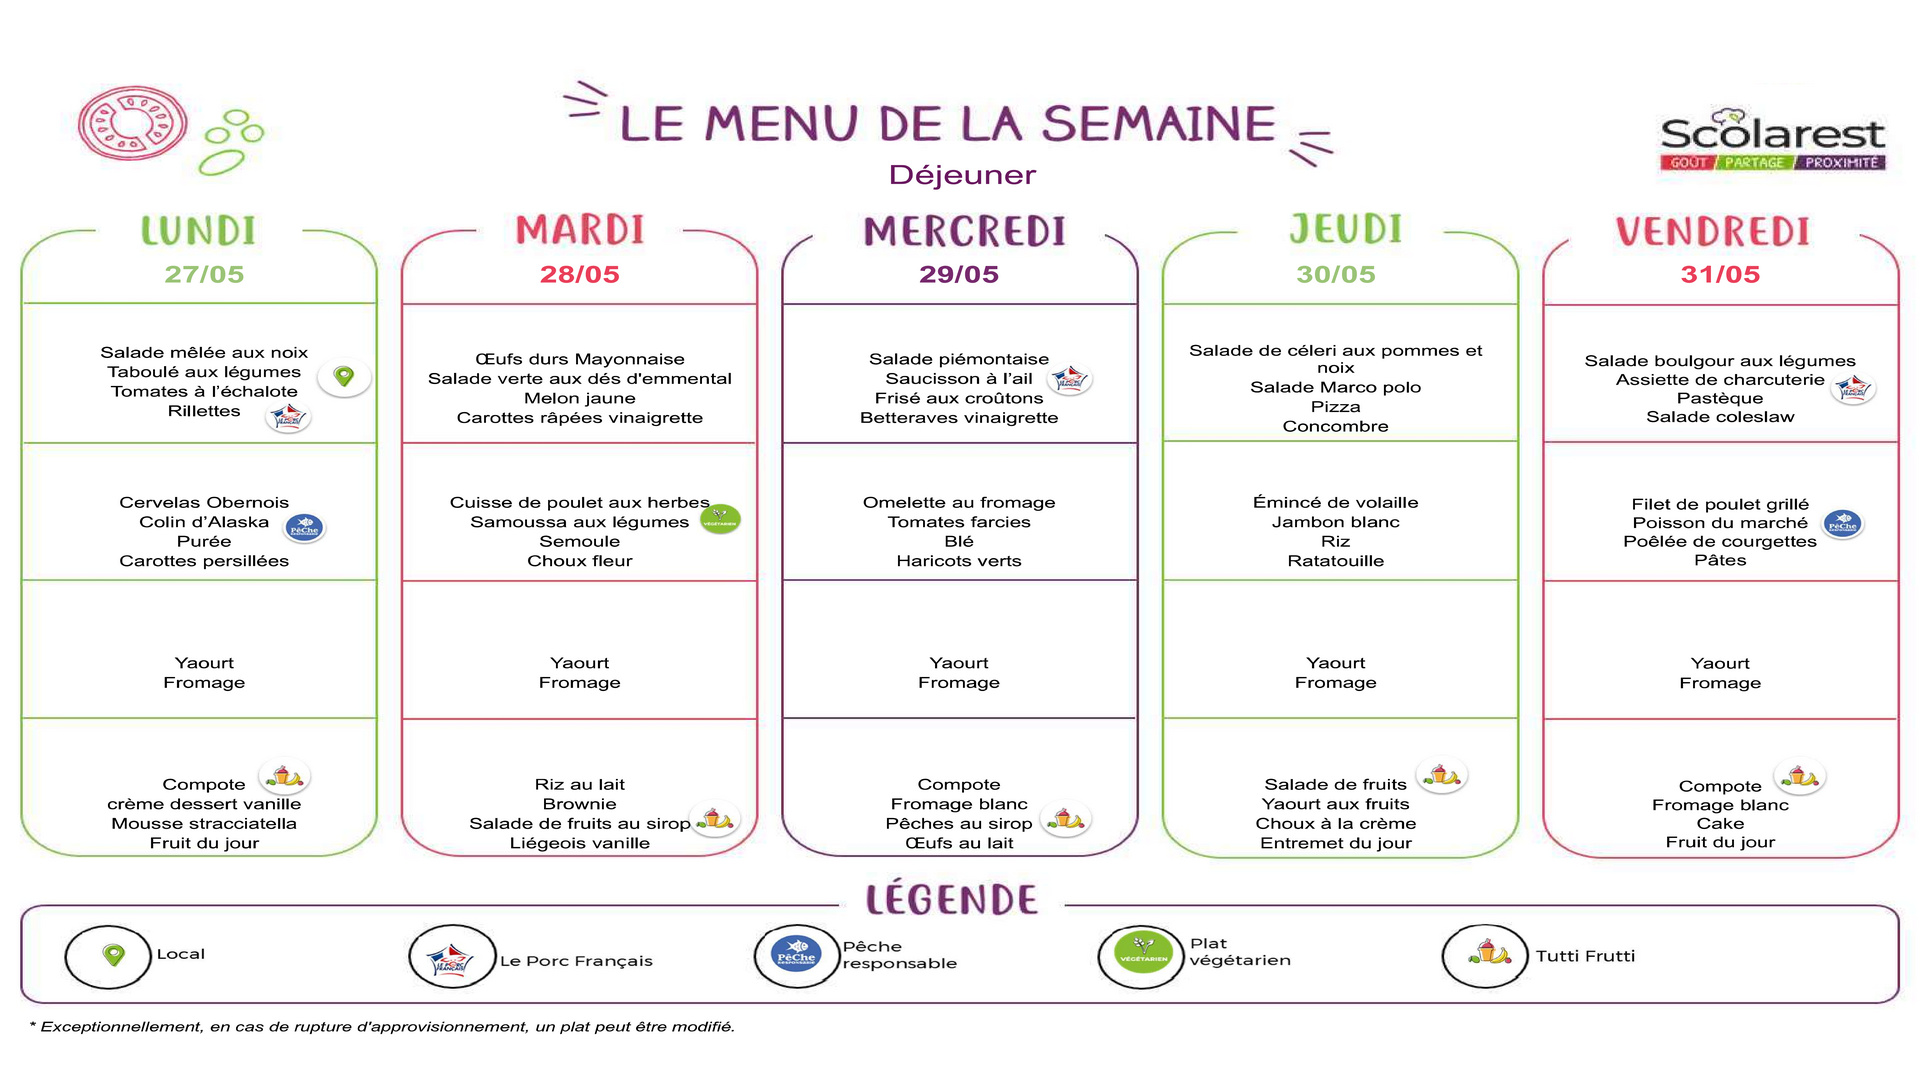
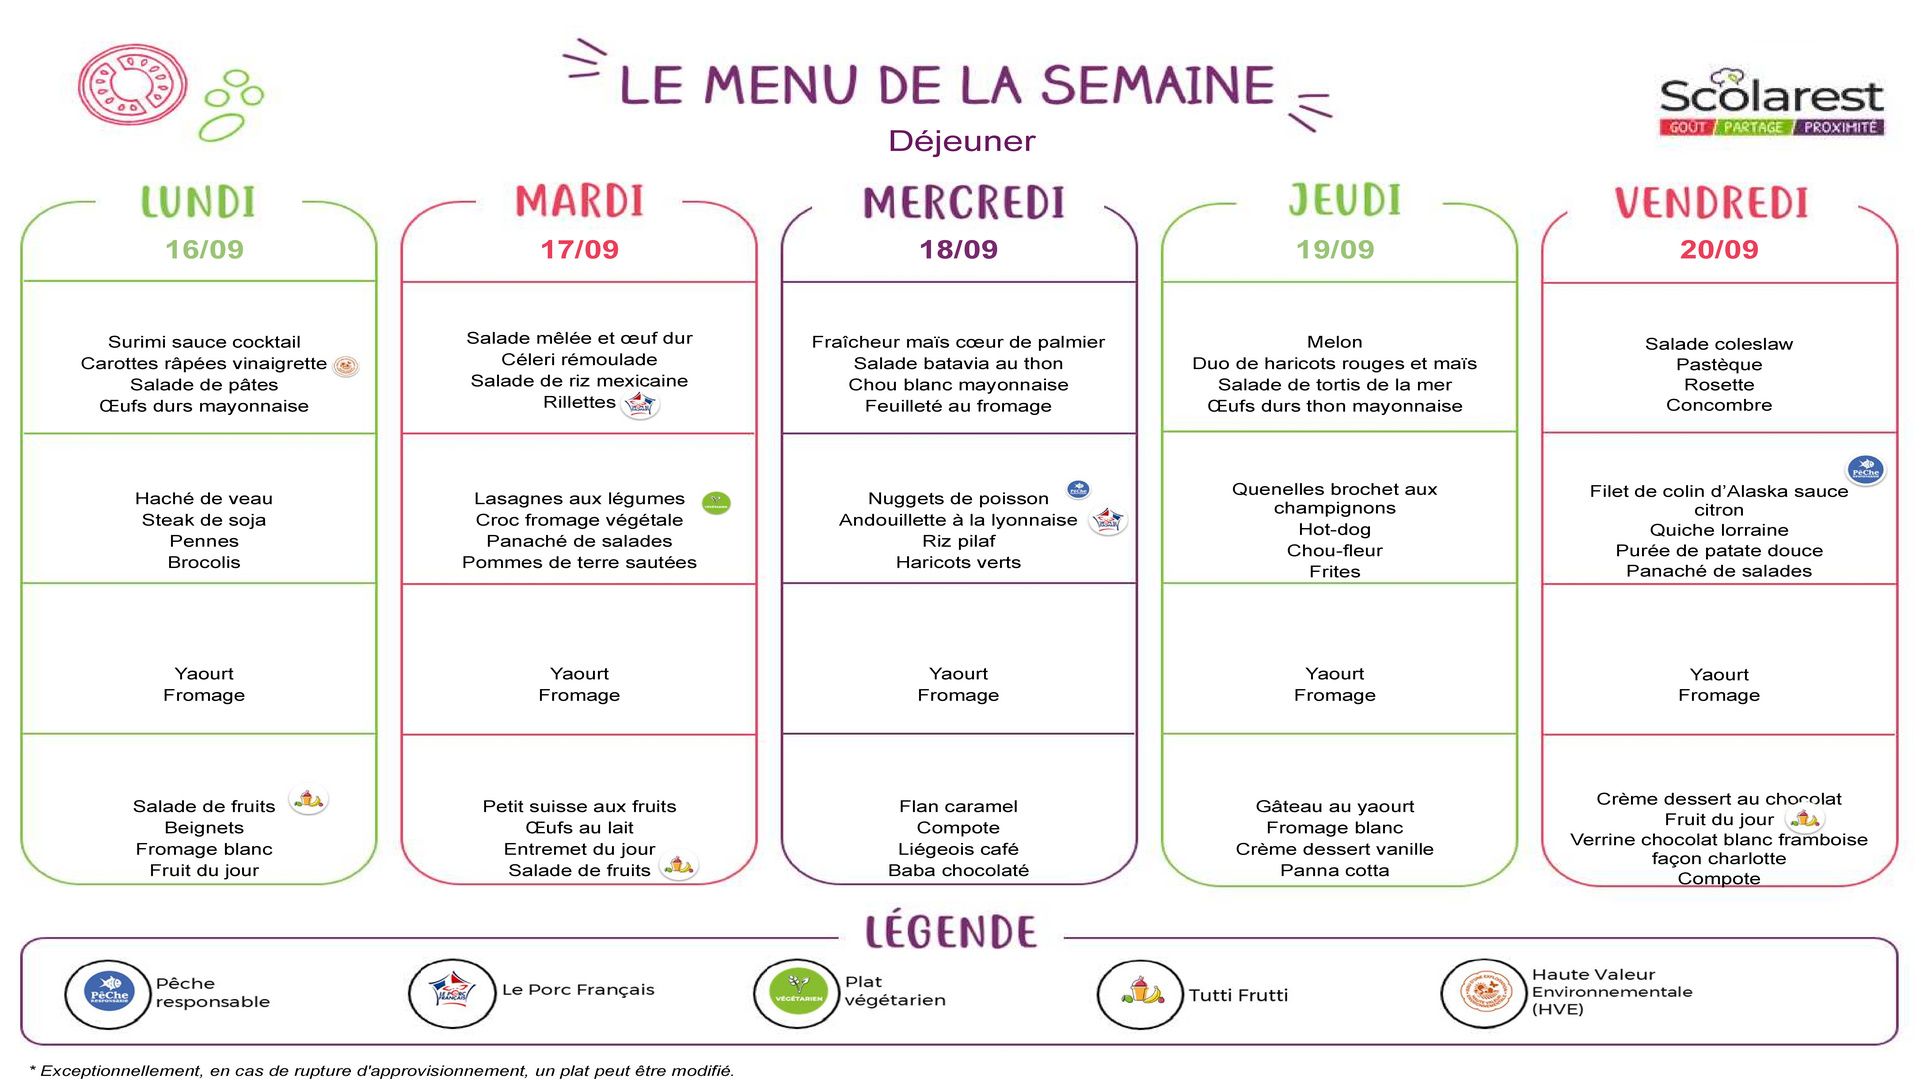
Mise à jour du 18/09/2024

diff --git a/list.php b/list.php
@@ -1,33 +1,17 @@
-<!------------HEADER------------>
 <?php
 require_once 'verif_session.php';
 require_once 'Fonctions/fonction.php';
 
-//var_dump($user_id);
-//var_dump($role_id);
-//if (!checkPermission($role_id, $page, $pdo)) {
-        // Redirection vers une page d'erreur d'autorisation
-  //  header("Location: 403error.php");
-    //exit(); // Arrêt de l'exécution du script pour éviter tout accès non autorisé
-//}
-
-
-$pageTitle = "Liste des Rasperrys Pi"; // Titre de la page
+$pageTitle = "Liste des Rasperrys Pi";
 $dropDownMenu = true;
 include "modules/header.php";
 ?>
-<!------------BODY------------>
-
-
 <body>
     <div class="list page">
-
         <?php include "modules/list_menu.php"; ?>
-
         <section class="page-content">
             <h1>Liste des Hôtes</h1>
             <hr>
-
             <label for="target_pis">Hôtes cibles</label>
             <select id="target_pis" name="target_pis[]" multiple>
                 <?php
@@ -35,13 +19,11 @@ include "modules/header.php";
                 try {
                     $conn = new PDO('mysql:host=' . $dbhost . ';port=' . $dbport . ';dbname=' . $db . '', $dbuser, $dbpasswd);
                     $conn->setAttribute(PDO::ATTR_ERRMODE, PDO::ERRMODE_EXCEPTION);
-
                     $stmt = $conn->query('SELECT * FROM pis');
-                    $rows = $stmt->fetchAll();
-
+                    $rows = $stmt->fetchAll(PDO::FETCH_ASSOC);
                     if (count($rows) > 0) {
                         foreach ($rows as $row) {
-                            echo '<option value="' . $row['ip'] . '">' . $row['name'] . ' - ' . $row['ip'] . '</option>';
+                            echo '<option value="' . $row['id'] . '">' . $row['name'] . ' - ' . $row['ip'] . '</option>';
                         }
                     } else {
                         echo '<option disabled selected>Pas d\'hôte disponible...</option>';
@@ -51,90 +33,42 @@ include "modules/header.php";
                 }
                 ?>
             </select>
-
             <?php
-            require_once "controllers/controller_config_files.php";
-
-            $db = new PDO('mysql:host=' . $dbhost . ';port=' . $dbport . ';dbname=' . $db . '', $dbuser, $dbpasswd);
-            // Récupérer tous les groupes depuis la table "groups"
+            // Récupérer tous les groupes depuis la table "groupes"
             $query = "SELECT id, name FROM groupes";
-            $stmt = $db->prepare($query);
+            $stmt = $conn->prepare($query);
             $stmt->execute();
             $groups = $stmt->fetchAll(PDO::FETCH_ASSOC);
-
-            // Traitement du formulaire
-            if ($_SERVER["REQUEST_METHOD"] == "POST") {
-                // Récupérer le groupe sélectionné
-                $selectedGroupId = $_POST['group_id'];
-
-                // Mettre à jour la base de données avec le nouveau groupe sélectionné
-                $query = "UPDATE pis SET group_id = :group_id";
-                $stmt = $db->prepare($query);
-                $stmt->bindParam(':group_id', $selectedGroupId);
-                $stmt->execute();
-
-                // Rediriger vers la page de configuration pour éviter la soumission du formulaire à nouveau en actualisant la page
-                // header("Location: list.php");
-
-                die();
-            }
             ?>
-
             <div class="selected-group">
-
                 <form method="post" action="update_table.php">
-
-                    <label for="group_id">Sélectionner un groupe</label>
-                    <select class="gid" name="group_id" id="groupid">
-                        <option value="">Sélectionner un groupe</option>
+                    <label for="group_id">Sélectionner des groupes</label>
+                    <select class="gid" name="group_id[]" id="groupid" multiple>
                         <?php foreach ($groups as $group): ?>
                             <option value="<?php echo $group['id']; ?>">
                                 <?php echo $group['name']; ?>
                             </option>
                         <?php endforeach; ?>
                     </select>
-
                     <input type="hidden" name="selected_pis" id="selected_pis" value="">
                     <input type="hidden" name="existing_group" id="existing_group" value="">
                     <button tabindex="0" type="submit" class="submit-btn">Ajouter</button>
-
                 </form>
             </div>
-
         </section>
     </div>
-
     <script>
-        var existingGroup; // Déclarez existingGroup ici
-
-        function addToGroup() {
-            var targetPis = document.getElementById("target_pis");
-            var selectedPis = Array.from(targetPis.selectedOptions).map(option => option.value);
-
-            existingGroup = document.getElementById("existing_group").value; // Obtenez la valeur de l'élément HTML ici
-
-            // Envoyer les données au serveur via une requête AJAX ou un formulaire
-            alert("Ajout de ces Hôtes (" + selectedPis.join(', ') + ") au groupe " + existingGroup);
-        }
-
-        document.getElementById("target_pis").addEventListener("change", function () {
-            var selectedPis = document.getElementById("target_pis").selectedOptions;
-            var selectedGroup = document.querySelector(".selected-group");
-
-            selectedGroup.style.display = selectedPis.length > 0 ? "block" : "none";
-
-        });
-
-
         document.getElementById("target_pis").addEventListener("change", function () {
             var selectedPis = Array.from(this.selectedOptions).map(option => option.value);
             document.getElementById("selected_pis").value = selectedPis.join(',');
+            var selectedGroup = document.querySelector(".selected-group");
+            selectedGroup.style.display = selectedPis.length > 0 ? "block" : "none";
         });
 
         document.getElementById("groupid").addEventListener("change", function () {
-            document.getElementById("existing_group").value = this.value;
+            var selectedGroups = Array.from(this.selectedOptions).map(option => option.value);
+            document.getElementById("existing_group").value = selectedGroups.join(',');
         });
     </script>
-
-    <!------------FOOTER------------>
     <?php include "modules/footer.php"; ?>
+</body>

diff --git a/update_table.php b/update_table.php
@@ -1,56 +1,52 @@
-<!------------HEADER------------>
 <?php
-$pageTitle = "Modifier Table"; // Titre de la page
+$pageTitle = "Modifier Table";
 $dropDownMenu = true;
 include "modules/header.php";
 ?>
-
-<!------------BODY------------>
-
 <body>
     <div class="page">
         <section class="page-content">
-
             <?php
             require_once "controllers/controller_config_files.php";
 
             if ($_SERVER["REQUEST_METHOD"] === "POST") {
-                // Récupérer les données soumises
                 $selectedPis = isset($_POST['selected_pis']) ? $_POST['selected_pis'] : '';
-                $existingGroup = isset($_POST['existing_group']) ? $_POST['existing_group'] : '';
+                $existingGroups = isset($_POST['existing_group']) ? $_POST['existing_group'] : '';
 
-                // Validation des données (vous devrez peut-être effectuer une validation plus approfondie ici)
+                // Validation des données
+                $selectedPisArray = explode(',', $selectedPis);
+                $existingGroupsArray = explode(',', $existingGroups);
 
-                // Mettre à jour la base de données avec les Raspberry Pi sélectionnés
                 try {
                     $conn = new PDO('mysql:host=' . $dbhost . ';port=' . $dbport . ';dbname=' . $db, $dbuser, $dbpasswd);
                     $conn->setAttribute(PDO::ATTR_ERRMODE, PDO::ERRMODE_EXCEPTION);
 
-                    // Vous devrez diviser la chaîne $selectedPis en un tableau pour traiter chaque Raspberry Pi
-                    $selectedPisArray = explode(',', $selectedPis);
+                    // Supprimer les relations existantes pour les Pi sélectionnés
+                    $deleteQuery = "DELETE FROM pis_groups WHERE pi_id IN (" . implode(',', array_map('intval', $selectedPisArray)) . ")";
+                    $conn->exec($deleteQuery);
 
-                    // Transformez le tableau en une chaîne de caractères avec des marqueurs de position
-                    $selectedPisPlaceholders = implode(', ', array_fill(0, count($selectedPisArray), '?'));
-
-                    // Préparez la requête en utilisant des marqueurs de position pour les Raspberry Pi
-                    $query = "UPDATE pis SET group_id = ? WHERE ip IN ($selectedPisPlaceholders)";
-                    $stmt = $conn->prepare($query);
-                    $stmt->bindParam(1, $existingGroup, PDO::PARAM_INT);
-
-                    // Liez chaque valeur du tableau individuellement
-                    foreach ($selectedPisArray as $index => $selectedPi) {
-                        $stmt->bindValue(($index + 2), $selectedPi, PDO::PARAM_STR);
+                    // Insérer les nouvelles relations
+                    foreach ($selectedPisArray as $pi_id) {
+                        foreach ($existingGroupsArray as $group_id) {
+                            $insertQuery = "INSERT INTO pis_groups (pi_id, group_id) VALUES (:pi_id, :group_id)";
+                            $stmt = $conn->prepare($insertQuery);
+                            $stmt->bindParam(':pi_id', $pi_id, PDO::PARAM_INT);
+                            $stmt->bindParam(':group_id', $group_id, PDO::PARAM_INT);
+                            if (!$stmt->execute()) {
+                                $msg = "Erreur lors de la mise à jour de la base de données : " . implode(", ", $stmt->errorInfo());
+                                include "./modules/error.php";
+                                exit;
+                            }
+                        }
                     }
 
-                    if ($stmt->execute()) {
-                        // Mise à jour réussie, maintenant mettez à jour la colonne "membre" dans la table "groupes".
-                        $updateGroupMemberCountQuery = "UPDATE groupes g
-                                           SET g.membres = (SELECT COUNT(p.ip) FROM pis p WHERE p.group_id = g.id)";
-                        $conn->exec($updateGroupMemberCountQuery);
-                    } else {
-                        $msg = "Erreur lors de la mise à jour de la base de données : " . implode(", ", $stmt->errorInfo());
-                        include "./modules/error.php";
-                    }
+                    // Mise à jour réussie, maintenant mettez à jour la colonne "membre" dans la table "groupes".
+                    $updateGroupMemberCountQuery = "UPDATE groupes g
+                                                    SET g.membres = (SELECT COUNT(pg.pi_id) FROM pis_groups pg WHERE pg.group_id = g.id)";
+                    $conn->exec($updateGroupMemberCountQuery);
+
+                    $msg = "Les hôtes ont bien été ajoutés aux groupes sélectionnés.";
+                    include "./modules/success.php";
 
                 } catch (PDOException $e) {
                     $msg = "Erreur de connexion à la base de données : " . $e->getMessage();
@@ -60,20 +56,8 @@ include "modules/header.php";
                 $msg = "Accès non autorisé.";
                 include "./modules/error.php";
             }
-
-            $msg = "L'hôte a bien été ajouté au groupe " . $existingGroup . ".";
-            include "./modules/success.php";
-
             ?>
-
-            <!-- <a tabindex="0" href="<?php echo $_SERVER['HTTP_REFERER']; ?>" class="back-btn"><i
-            class="fa-solid fa-arrow-right-from-bracket fa-rotate-180"></i>Retour</a> -->
-
         </section>
     </div>
-
 </body>
-
-
-<!------------FOOTER------------>
 <?php include "modules/footer.php"; ?>

diff --git a/envoi.php b/envoi.php
@@ -37,7 +37,6 @@ compteur=0;
 lancer_chromium() {
     xset s noblank
     xset s off
-    xset -dpms
     unclutter -idle 1 -root &
  /usr/bin/chromium-browser --kiosk --noerrdialogs $link &
 }
@@ -81,7 +80,10 @@ BASH;
                 // Boucle sur chaque groupe sélectionné
                 foreach ($selectedGroups as $groupId) {
                     // Récupérez les adresses IP, username et password des Raspberry Pi pour ce groupe depuis la base de données
-                    $query = "SELECT name, ip, username, password, video_acceptance FROM pis WHERE group_id = :group_id";
+                    $query = "SELECT p.ip, p.username, p.password, p.name, p.video_acceptance 
+                                FROM pis p
+                                JOIN pis_groups pg ON p.id = pi_id
+                                WHERE pg.group_id = :group_id";
                     $stmt = $pdo->prepare($query);
                     $stmt->bindParam(":group_id", $groupId, PDO::PARAM_INT);
 
@@ -100,7 +102,7 @@ BASH;
                             $username = $raspberryPiInfo['username'];
                             $password = $raspberryPiInfo['password'];
                             $video_acceptance = $raspberryPiInfo['video_acceptance'];
-			    $name = $raspberryPiInfo['name'];
+			                      $name = $raspberryPiInfo['name'];
 
                             $fichier = @fopen($file, 'w');
                             if ($fichier === false) {

diff --git a/upload_video.php b/upload_video.php
@@ -69,9 +69,9 @@ include "modules/header.php";
                             $pdo = new PDO('mysql:host=' . $dbhost . ';port=' . $dbport . ';dbname=' . $db, $dbuser, $dbpasswd);
 
                             // Préparer et exécuter une requête SQL pour récupérer les données des groupes
-                            $query = "SELECT groupes.id, groupes.name, COUNT(pis.ip) AS membres
+                            $query = "SELECT groupes.id, groupes.name, COUNT(pis_groups.pi_id) AS membres
                                     FROM groupes
-                                    LEFT JOIN pis ON groupes.id = pis.group_id
+                                    LEFT JOIN pis_groups ON groupes.id = pis_groups.group_id
                                     GROUP BY groupes.id, groupes.name";
 
                             $stmt = $pdo->query($query);

diff --git a/get_pis.php b/get_pis.php
@@ -11,7 +11,10 @@ if ($_SERVER["REQUEST_METHOD"] === "GET" && isset($_GET["group_id"])) {
         $pdo->setAttribute(PDO::ATTR_ERRMODE, PDO::ERRMODE_EXCEPTION);
 
         // Effectuer une requête SQL pour récupérer les Raspberry Pi du groupe en fonction de l'ID du groupe
-        $sql = "SELECT name, ip FROM pis WHERE group_id = :group_id";
+        $sql = "SELECT pis.name, pis.ip   
+                FROM pis 
+                INNER JOIN pis_groups ON pis.id = pis_groups.pi_id 
+                WHERE pis_groups.group_id = :group_id";
         $stmt = $pdo->prepare($sql);
         $stmt->bindParam(':group_id', $group_id, PDO::PARAM_INT);
         $stmt->execute();

diff --git a/reboot_rasp.php b/reboot_rasp.php
@@ -27,7 +27,10 @@ try {
     // Boucle sur chaque groupe sélectionné
     foreach ($selectedGroups as $groupId) {
         // Récupérez les adresses IP, username et password des Raspberry Pi pour ce groupe depuis la base de données
-        $query = "SELECT ip, username, password FROM pis WHERE group_id = :group_id";
+        $query = "SELECT p.ip, p.username, p.password 
+                    FROM pis p
+                    JOIN pis_groups pg ON p.id = pi_id
+                    WHERE pg.group_id = :group_id";
         $stmt = $pdo->prepare($query);
         $stmt->bindParam(":group_id", $groupId, PDO::PARAM_INT);
 
